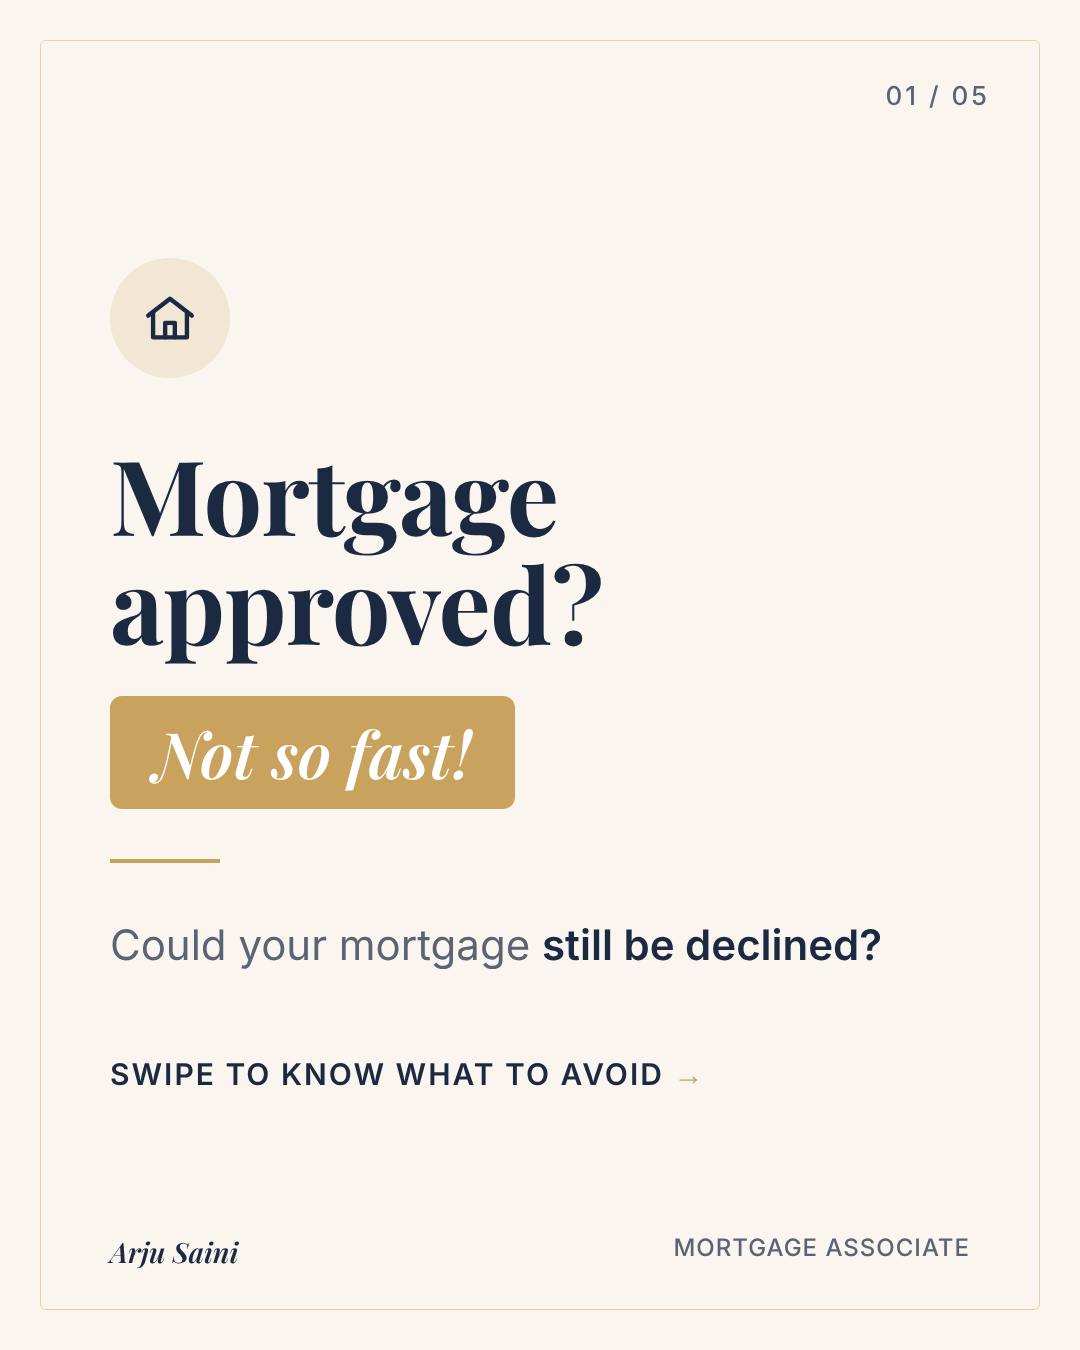
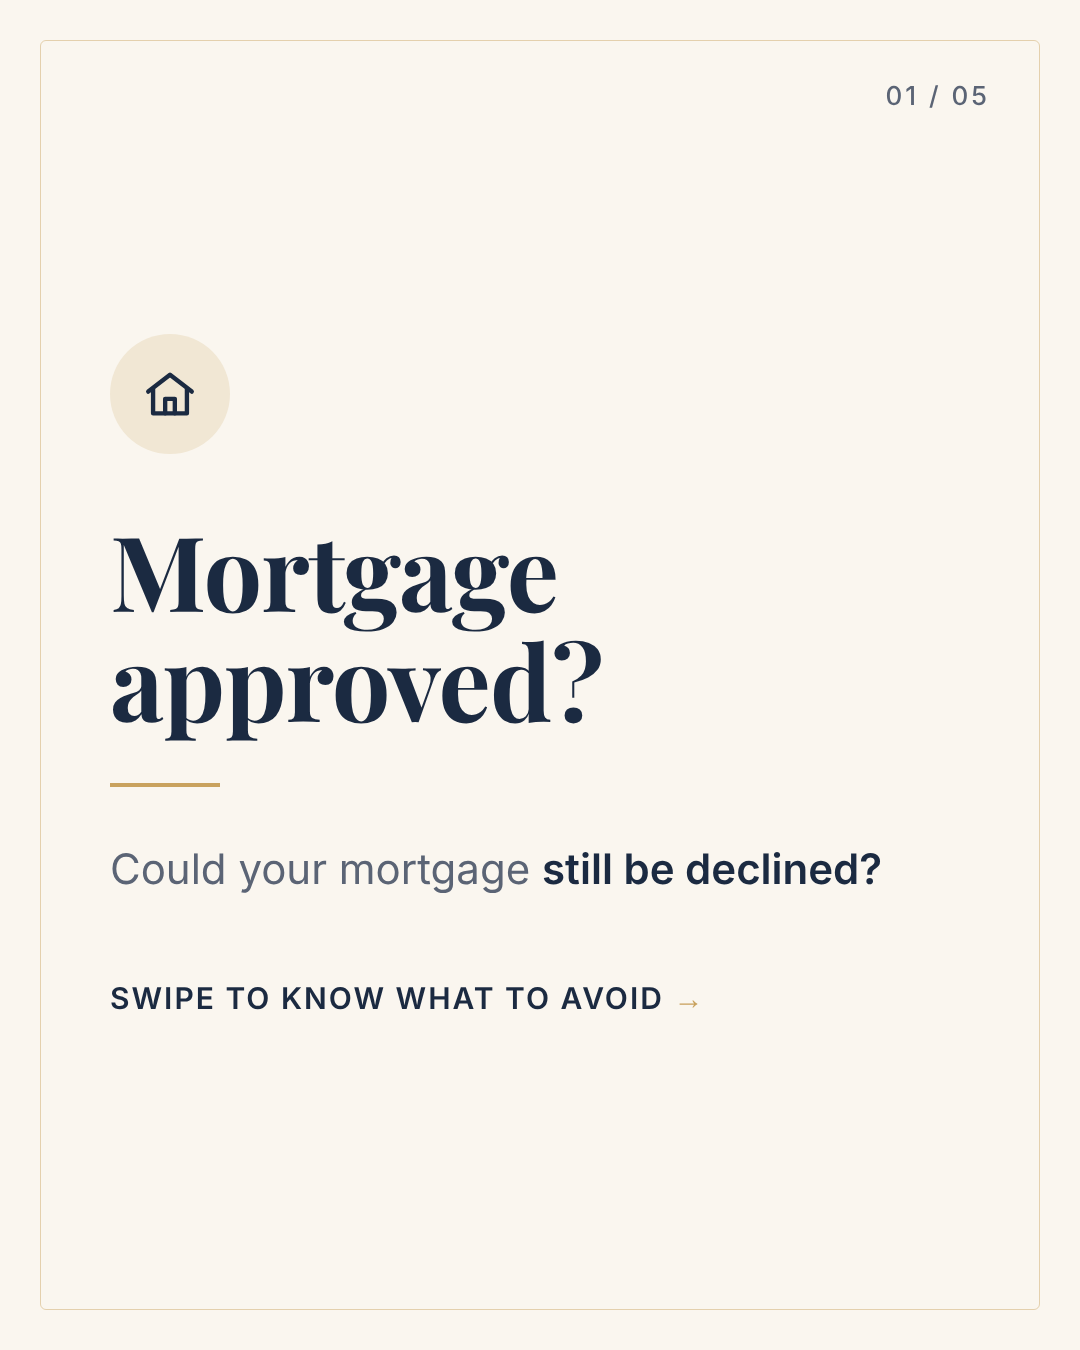
Remove name footer and 'Not so fast' tag from carousel
Claude-Session: https://claude.ai/code/session_01Y7RCfjyAccEq1Fjb4ob7ir

diff --git a/mortgage-carousel/carousel.html b/mortgage-carousel/carousel.html
@@ -31,11 +31,9 @@ li::before{content:"";flex:0 0 22px;height:22px;margin-top:17px;border-radius:50
   <div class="count">01 / 05</div>
   <div class="icon"><svg viewBox="0 0 24 24"><path d="M3 11l9-7 9 7"/><path d="M5 10v10h14V10"/><path d="M10 20v-6h4v6"/></svg></div>
   <h1>Mortgage<br>approved?</h1>
-  <div><span class="pill">Not so fast!</span></div>
   <div class="rule"></div>
   <p>Could your mortgage <strong>still be declined?</strong></p>
   <div class="swipe">Swipe to know what to avoid <span>→</span></div>
-  <div class="brand"><b>Arju Saini</b><span>MORTGAGE ASSOCIATE</span></div>
 </section>
 
 <section class="slide" id="s2">
@@ -44,7 +42,6 @@ li::before{content:"";flex:0 0 22px;height:22px;margin-top:17px;border-radius:50
   <h2>Thinking of switching jobs?</h2>
   <div class="rule"></div>
   <p>A job change before closing could affect your mortgage approval, especially if your <strong>income or employment type changes.</strong></p>
-  <div class="brand"><b>Arju Saini</b><span>MORTGAGE ASSOCIATE</span></div>
 </section>
 
 <section class="slide" id="s3">
@@ -53,7 +50,6 @@ li::before{content:"";flex:0 0 22px;height:22px;margin-top:17px;border-radius:50
   <h2>Planning to buy a new car?</h2>
   <div class="rule"></div>
   <p>That new car loan or financing could <strong>increase your monthly debt</strong> and affect how much mortgage you qualify for.</p>
-  <div class="brand"><b>Arju Saini</b><span>MORTGAGE ASSOCIATE</span></div>
 </section>
 
 <section class="slide" id="s4">
@@ -62,7 +58,6 @@ li::before{content:"";flex:0 0 22px;height:22px;margin-top:17px;border-radius:50
   <h2>Don't ignore your credit!</h2>
   <div class="rule"></div>
   <p><strong>Missing payments, increasing credit card balances</strong> or <strong>applying for new credit</strong> could affect your financial profile.</p>
-  <div class="brand"><b>Arju Saini</b><span>MORTGAGE ASSOCIATE</span></div>
 </section>
 
 <section class="slide" id="s5">
@@ -76,6 +71,5 @@ li::before{content:"";flex:0 0 22px;height:22px;margin-top:17px;border-radius:50
     <li>Stay in touch with your mortgage professional.</li>
   </ul>
   <div class="cta">A smooth closing starts with smart decisions.</div>
-  <div class="brand"><b>Arju Saini</b><span>MORTGAGE ASSOCIATE</span></div>
 </section>
 </body></html>
